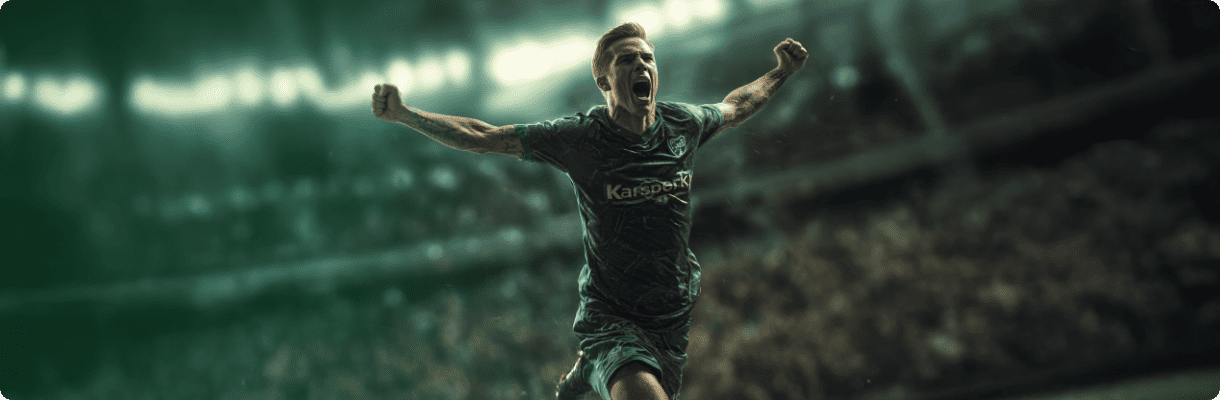
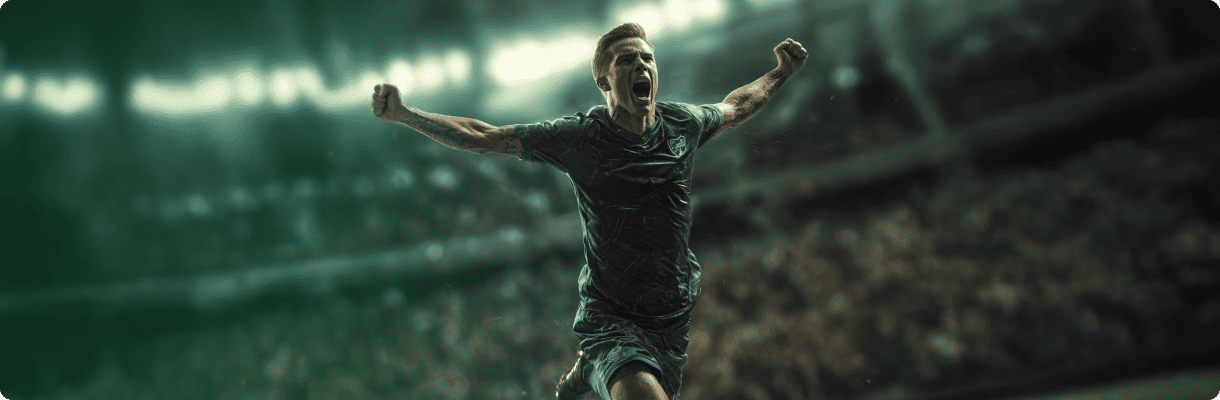
feat(reward-screen): UI refresh for hero section, rewards cards and user rewards list
- Updated hero background image on User Reward screen

- Refined hero button styles for better visual hierarchy

- Updated hero text content and typography

- Adjusted active tab color to match brand guidelines

- Improved styling and layout of Rewards cards

- Updated My Rewards item styles for consistency and readability

diff --git a/client/src/pages/rewards.tsx b/client/src/pages/rewards.tsx
@@ -11,7 +11,7 @@ import { useToast } from "@/hooks/use-toast";
 import { useTranslation } from "@/hooks/useTranslation";
 import { apiRequest } from "@/lib/queryClient";
 import type { Reward, UserReward, PointsConfig } from "@shared/schema";
-import rewardsBackgroundImage from "@assets/BANNER-3_1758838053683.jpg";
+import rewardsBackgroundImage from "@assets/rewards-banner.png";
 
 interface UserStats {
   availablePoints: number;
@@ -190,14 +190,12 @@ export default function Rewards() {
         <div className="max-w-7xl mx-auto px-4 sm:px-6 lg:px-8 pb-8">
           <div className="text-left space-y-4 max-w-lg">
             <h1 className="text-4xl lg:text-5xl font-bold leading-tight text-white" data-testid="text-page-title">
-              Rewards<br />Catalog
+              Make every play <br />
+              <strong>end in a goal</strong>
             </h1>
-            <p className="text-lg text-white leading-relaxed">
-              Redeem your points for amazing rewards
-            </p>
-            <div className="bg-white/10 backdrop-blur-sm rounded-lg px-4 py-2 inline-block">
+            <div className="bg-white/10 backdrop-blur-sm rounded-lg px-4 py-2 inline-block gradient-green">
               <span className="text-sm text-white font-medium">
-                Available Points: {stats?.availablePoints?.toLocaleString() || 0}
+                Goals: {stats?.availablePoints?.toLocaleString() || 0}
               </span>
             </div>
           </div>
@@ -264,7 +262,7 @@ export default function Rewards() {
               {rewards.map((reward) => (
                 <Card key={reward.id} className="shadow-material" data-testid={`card-reward-${reward.id}`}>
                   <CardContent className="p-6">
-                    <div className="flex items-center space-x-4 mb-4">
+                    <div className="flex items-center space-x-4 mb-4 reward-info">
                       {reward.imageUrl ? (
                         <img 
                           src={reward.imageUrl} 
@@ -279,27 +277,27 @@ export default function Rewards() {
                           }}
                         />
                       ) : null}
-                      <div className={`w-12 h-12 bg-gradient-to-br ${getCategoryColor(reward.category)} rounded-lg flex items-center justify-center ${reward.imageUrl ? 'hidden' : ''}`}>
+                      <div className={`w-12 h-12 bg-gradient-to-br ${getCategoryColor(reward.category)} rounded-lg flex items-center justify-center green-background ${reward.imageUrl ? 'hidden' : ''}`}>
                         {getRewardIcon(reward.category)}
                       </div>
                       <div className="flex-1">
                         <h3 className="font-semibold text-gray-900">{reward.name}</h3>
-                        <p className="text-sm text-gray-600">
-                          {reward.pointsCost.toLocaleString()} points
+                        <p className="text-sm text-gray-600 text-center">
+                          <span className="goal-number text-green-600">{reward.pointsCost.toLocaleString()}</span> Goals
                         </p>
                       </div>
                     </div>
                     
                     {reward.description && (
-                      <p className="text-sm text-gray-600 mb-4">{reward.description}</p>
+                      <p className="text-sm text-gray-600 mb-4 text-center">{reward.description}</p>
                     )}
                     
-                    <Badge variant="outline" className="mb-4">
+                    <Badge variant="outline" className="mb-4 reward-category">
                       {reward.category}
                     </Badge>
                     
                     <Button
-                      className="w-full"
+                      className="w-full gradient-green"
                       onClick={() => handleRedeem(reward)}
                       disabled={!stats || stats.availablePoints < reward.pointsCost || redeemMutation.isPending}
                       data-testid={`button-redeem-${reward.id}`}
@@ -352,7 +350,7 @@ export default function Rewards() {
               {availableRewards().map((reward) => (
                 <Card key={reward.id} className="shadow-material border-green-200" data-testid={`card-available-reward-${reward.id}`}>
                   <CardContent className="p-6">
-                    <div className="flex items-center space-x-4 mb-4">
+                    <div className="flex items-center space-x-4 mb-4 reward-info">
                       {reward.imageUrl ? (
                         <img 
                           src={reward.imageUrl} 
@@ -367,27 +365,27 @@ export default function Rewards() {
                           }}
                         />
                       ) : null}
-                      <div className={`w-12 h-12 bg-gradient-to-br ${getCategoryColor(reward.category)} rounded-lg flex items-center justify-center ${reward.imageUrl ? 'hidden' : ''}`}>
+                      <div className={`w-12 h-12 bg-gradient-to-br ${getCategoryColor(reward.category)} rounded-lg flex items-center justify-center green-background ${reward.imageUrl ? 'hidden' : ''}`}>
                         {getRewardIcon(reward.category)}
                       </div>
                       <div className="flex-1">
                         <h3 className="font-semibold text-gray-900">{reward.name}</h3>
-                        <p className="text-sm text-green-600 font-medium">
-                          {reward.pointsCost.toLocaleString()} points ✓
+                        <p className="text-sm text-green-600 font-medium text-center">
+                          <span className="goal-number">{reward.pointsCost.toLocaleString()}</span> Goals ✓
                         </p>
                       </div>
                     </div>
                     
                     {reward.description && (
-                      <p className="text-sm text-gray-600 mb-4">{reward.description}</p>
+                      <p className="text-sm text-gray-600 mb-4 text-center">{reward.description}</p>
                     )}
                     
-                    <Badge variant="outline" className="mb-4 border-green-200 text-green-700">
+                    <Badge variant="outline" className="mb-4 border-green-200 text-green-700 reward-category">
                       {reward.category}
                     </Badge>
                     
                     <Button
-                      className="w-full bg-green-600 hover:bg-green-700"
+                      className="w-full bg-green-600 gradient-green hover:bg-green-700"
                       onClick={() => handleRedeem(reward)}
                       disabled={redeemMutation.isPending}
                       data-testid={`button-redeem-available-${reward.id}`}
@@ -421,7 +419,7 @@ export default function Rewards() {
               {filteredRewards(category).map((reward) => (
                 <Card key={reward.id} className="shadow-material">
                   <CardContent className="p-6">
-                    <div className="flex items-center space-x-4 mb-4">
+                    <div className="flex items-center space-x-4 mb-4 reward-info">
                       {reward.imageUrl ? (
                         <img 
                           src={reward.imageUrl} 
@@ -436,23 +434,23 @@ export default function Rewards() {
                           }}
                         />
                       ) : null}
-                      <div className={`w-12 h-12 bg-gradient-to-br ${getCategoryColor(reward.category)} rounded-lg flex items-center justify-center ${reward.imageUrl ? 'hidden' : ''}`}>
+                      <div className={`w-12 h-12 bg-gradient-to-br ${getCategoryColor(reward.category)} rounded-lg flex items-center justify-center green-background ${reward.imageUrl ? 'hidden' : ''}`}>
                         {getRewardIcon(reward.category)}
                       </div>
                       <div className="flex-1">
                         <h3 className="font-semibold text-gray-900">{reward.name}</h3>
-                        <p className="text-sm text-gray-600">
-                          {reward.pointsCost.toLocaleString()} points
+                        <p className="text-sm text-gray-600 text-center">
+                          <span className="goal-number text-green-600">{reward.pointsCost.toLocaleString()}</span> Goals
                         </p>
                       </div>
                     </div>
                     
                     {reward.description && (
-                      <p className="text-sm text-gray-600 mb-4">{reward.description}</p>
+                      <p className="text-sm text-gray-600 mb-4 text-center">{reward.description}</p>
                     )}
                     
                     <Button
-                      className="w-full"
+                      className="w-full gradient-green"
                       onClick={() => handleRedeem(reward)}
                       disabled={!stats || stats.availablePoints < reward.pointsCost || redeemMutation.isPending}
                     >
@@ -476,7 +474,7 @@ export default function Rewards() {
                 <Card key={i} className="shadow-material">
                   <CardContent className="p-6">
                     <div className="flex items-center space-x-4 mb-4">
-                      <Skeleton className="h-12 w-12 rounded-lg" />
+                      <Skeleton className="h-12 w-12 rounded-lg green-background" />
                       <div className="flex-1">
                         <Skeleton className="h-5 w-3/4 mb-2" />
                         <Skeleton className="h-4 w-1/2" />
@@ -495,11 +493,11 @@ export default function Rewards() {
                   <CardContent className="p-6">
                     <div className="flex items-center justify-between">
                       <div className="flex items-center space-x-4">
-                        <div className={`w-12 h-12 ${
+                        <div className={`w-12 h-12 green-background ${
                           userReward.status === 'approved' ? 'bg-green-100' :
                           userReward.status === 'pending' ? 'bg-yellow-100' : 'bg-red-100'
                         } rounded-lg flex items-center justify-center`}>
-                          <Award className={`w-6 h-6 ${
+                          <Award className={`w-6 h-6 white-text ${
                             userReward.status === 'approved' ? 'text-green-600' :
                             userReward.status === 'pending' ? 'text-yellow-600' : 'text-red-600'
                           }`} />
@@ -553,7 +551,7 @@ export default function Rewards() {
                       </div>
                       <div className="text-right">
                         <Badge className={`${
-                          userReward.status === 'approved' ? 'bg-green-100 text-green-800' :
+                          userReward.status === 'approved' ? 'bg-green-100 text-green-800 green-background white-text' :
                           userReward.status === 'pending' ? 'bg-yellow-100 text-yellow-800' : 'bg-red-100 text-red-800'
                         }`} data-testid={`badge-status-${userReward.id}`}>
                           {userReward.status === 'approved' ? 'Approved' :

diff --git a/client/src/components/ui/tabs.tsx b/client/src/components/ui/tabs.tsx
@@ -27,7 +27,7 @@ const TabsTrigger = React.forwardRef<
   <TabsPrimitive.Trigger
     ref={ref}
     className={cn(
-      "inline-flex items-center justify-center whitespace-nowrap rounded-sm px-3 py-1.5 text-sm font-medium ring-offset-background transition-all focus-visible:outline-none focus-visible:ring-2 focus-visible:ring-ring focus-visible:ring-offset-2 disabled:pointer-events-none disabled:opacity-50 data-[state=active]:bg-background data-[state=active]:text-foreground data-[state=active]:shadow-sm",
+      "inline-flex items-center justify-center whitespace-nowrap rounded-sm px-3 py-1.5 text-sm font-medium ring-offset-background transition-all focus-visible:outline-none focus-visible:ring-2 focus-visible:ring-ring focus-visible:ring-offset-2 disabled:pointer-events-none disabled:opacity-50 data-[state=active]:bg-background data-[state=active]:text-green-600 data-[state=active]:shadow-sm",
       className
     )}
     {...props}

diff --git a/client/src/index.css b/client/src/index.css
@@ -140,3 +140,22 @@
 .green-background-opacity15 {
   background: rgba(41, 204, 177, .15)
 }
+/*--reward-screen--*/
+.reward-info {
+    flex-direction: column;
+    gap: 20px;
+}
+.goal-number {
+    font-size: 30px;
+    font-weight: 600;
+    display: block;
+    margin: 10px 0;
+}
+.red-text {
+  color: #FF0000;
+}
+.reward-category {
+    margin: 0 auto 15px auto;
+    display: block;
+    width: fit-content;
+}
